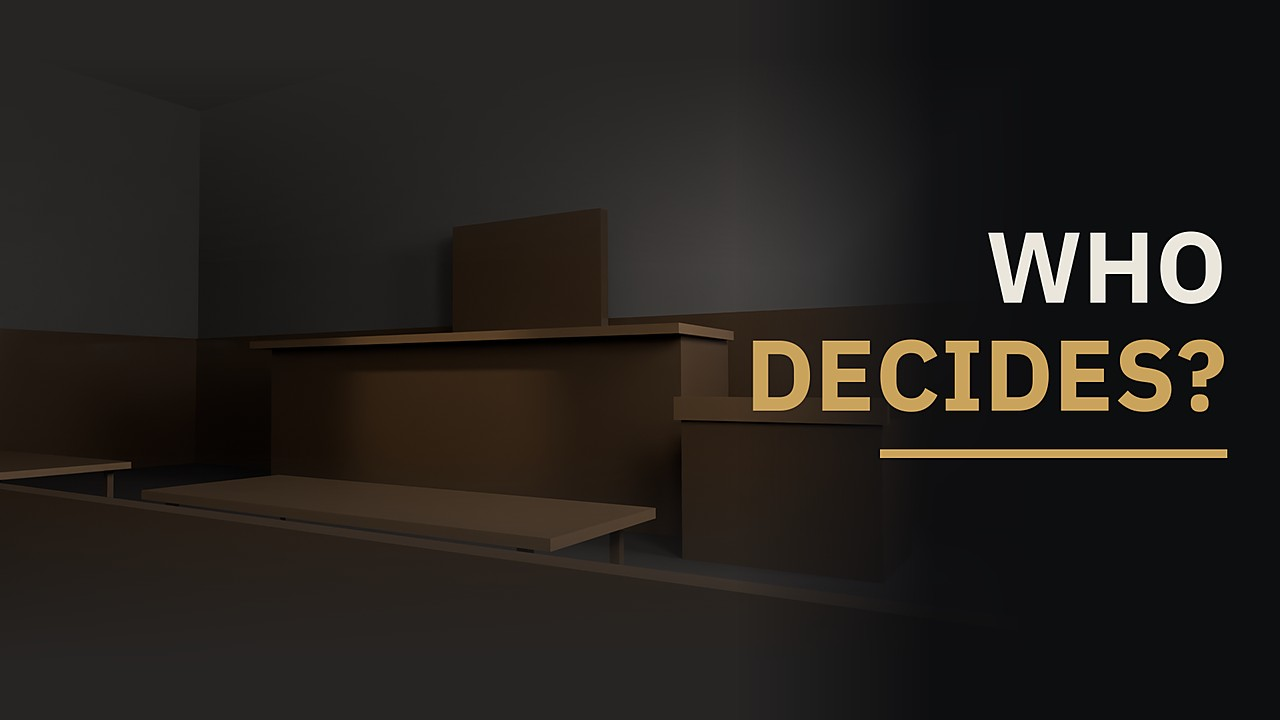
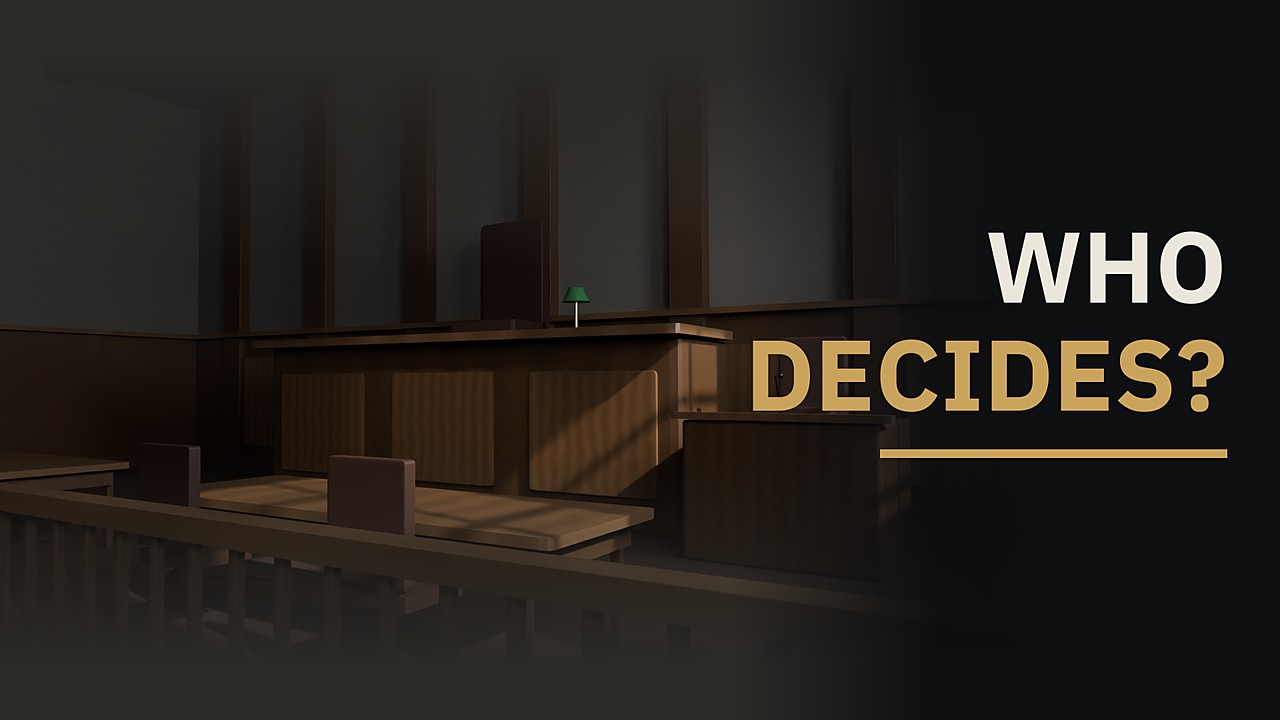
Case 07 hybrid: captions, chapters and thumbnails from the rebuilt edit
Claude-Session: https://claude.ai/code/session_01Xn4N8PhotUgJ6dRs1peGih

Changed region(s): [[0.125, 0.2444, 0.6875, 0.7944], [0.0, 0.6417, 0.0938, 0.7028], [0.2812, 0.4583, 0.4062, 0.4889]]

diff --git a/weight-of-evidence/production/thumbs07.py b/weight-of-evidence/production/thumbs07.py
@@ -2,7 +2,7 @@
 
     python thumbs07.py <prod_dir> <case01_prod_dir>
 
-A: the empty courtroom (scenes.py courtroom, view=bench), pushed left, with WHO DECIDES? on the right.
+A: the rebuilt courtroom (scenes.py courtroom, view=bench, sun through the windows), pushed left, with WHO DECIDES? on the right.
    No photograph of Terri Schiavo, nothing from the 2002 videotapes, no bedside, hospice or medical
    imagery (research §K).
 B: the Scale (Case 01's hero render), tipped, with NOTHING IN / WRITING.
